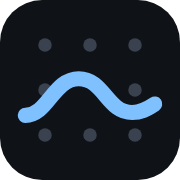
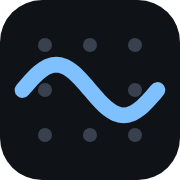
feat: met-service badge by country under cursor, smoke/fires/quakes overlays, symmetric mark, topbar menus always

Changed region(s): [[0.0833, 0.3056, 0.9167, 0.6944]]

diff --git a/front/provider.js b/front/provider.js
@@ -1,0 +1,63 @@
+// National met-service badge for the country under the cursor (Windy does
+// this with logos; we do it with wordmarks — the logos are trademarks and
+// this repo is MIT). Country from a Natural Earth 110 m polygon set bundled
+// in data/countries.json (public domain), point-in-polygon on a throttled
+// mousemove; the map centre on touch devices. Nothing shown when there is
+// no national service to credit for the spot (open ocean, Antarctica).
+(function () {
+  "use strict";
+  const WX = window.WX;
+  const PROVIDERS = {
+    US: ["NOAA · National Weather Service", "#1a5fb4"], CA: ["Environment and Climate Change Canada", "#c8102e"],
+    MX: ["SMN · Servicio Meteorológico Nacional", "#006847"], GB: ["Met Office", "#0d5f9c"], IE: ["Met Éireann", "#169b62"],
+    DE: ["DWD · Deutscher Wetterdienst", "#0a4a8f"], FR: ["Météo-France", "#1f4fa3"], ES: ["AEMET", "#c60b1e"], PT: ["IPMA", "#046a38"],
+    IT: ["Aeronautica Militare / ItaliaMeteo", "#008c45"], NL: ["KNMI", "#ff6f00"], BE: ["RMI / KMI", "#ffd90f"], CH: ["MeteoSwiss", "#d52b1e"],
+    AT: ["GeoSphere Austria", "#c8102e"], NO: ["MET Norway", "#ba0c2f"], SE: ["SMHI", "#006aa7"], FI: ["FMI", "#0033a0"], DK: ["DMI", "#c60c30"],
+    IS: ["Veðurstofa Íslands", "#02529c"], PL: ["IMGW", "#dc143c"], CZ: ["ČHMÚ", "#11457e"], AU: ["Bureau of Meteorology", "#00205b"],
+    NZ: ["MetService", "#1d3f8c"], JP: ["JMA · 気象庁", "#bc002d"], KR: ["KMA", "#0047a0"], CN: ["CMA · 中国气象局", "#de2910"],
+    IN: ["IMD", "#ff9933"], BR: ["INMET", "#009c3b"], AR: ["SMN Argentina", "#74acdf"], CL: ["Meteochile", "#d52b1e"], ZA: ["SAWS", "#007749"],
+    RU: ["Roshydromet", "#0039a6"], TR: ["MGM", "#e30a17"], GR: ["HNMS", "#0d5eaf"], SG: ["MSS", "#ef3340"], HK: ["Hong Kong Observatory", "#de2910"],
+    TW: ["CWA", "#fe0000"], PH: ["PAGASA", "#0038a8"], ID: ["BMKG", "#ce1126"], TH: ["TMD", "#2d2a4a"], VN: ["NCHMF", "#da251d"],
+    IL: ["IMS", "#0038b8"], AE: ["NCM", "#00732f"], SA: ["NCM", "#006c35"], EG: ["EMA", "#ce1126"], KE: ["KMD", "#006600"], NG: ["NiMet", "#008751"],
+    PE: ["SENAMHI", "#d91023"], CO: ["IDEAM", "#fcd116"], CU: ["INSMET", "#002a8f"],
+  };
+  let countries = null, loading = null, last = null, lastAt = 0, hideTimer = null;
+  const el = () => document.getElementById("provider");
+
+  function pip(lon, lat, ring) {
+    let inside = false;
+    for (let i = 0, j = ring.length - 1; i < ring.length; j = i++) {
+      const xi = ring[i][0], yi = ring[i][1], xj = ring[j][0], yj = ring[j][1];
+      if ((yi > lat) !== (yj > lat) && lon < (xj - xi) * (lat - yi) / (yj - yi || 1e-12) + xi) inside = !inside;
+    }
+    return inside;
+  }
+  function inGeom(lon, lat, g) {
+    if (g.type === "Polygon") return pip(lon, lat, g.coordinates[0]) && !g.coordinates.slice(1).some((h) => pip(lon, lat, h));
+    if (g.type === "MultiPolygon") return g.coordinates.some((poly) => pip(lon, lat, poly[0]));
+    return false;
+  }
+  function countryAt(lon, lat) {
+    if (!countries) return null;
+    for (const f of countries.features) if (inGeom(lon, lat, f.geometry)) return f.properties.iso;
+    return null;
+  }
+  function show(iso) {
+    const box = el(); if (!box) return;
+    const p = iso && PROVIDERS[iso];
+    if (!p) { box.classList.remove("show"); last = null; return; }
+    if (last === iso && box.classList.contains("show")) return;
+    // fade out → swap → fade in, so a border crossing reads as a change
+    const swap = () => { box.querySelector(".txt").innerHTML = `${p[0]} <small>${iso}</small>`; box.querySelector(".dot").style.background = p[1]; box.querySelector(".dot").style.color = p[1]; box.classList.add("show"); last = iso; };
+    if (box.classList.contains("show")) { box.classList.remove("show"); clearTimeout(hideTimer); hideTimer = setTimeout(swap, 180); } else swap();
+  }
+  function hover(ll) {
+    const now = performance.now();
+    if (!ll) { show(null); return; }
+    if (now - lastAt < 120) return;
+    lastAt = now;
+    if (!countries) { if (!loading) loading = fetch("data/countries.json").then((r) => r.json()).then((j) => { countries = j; hover(ll); }).catch(() => {}); return; }
+    show(countryAt(((ll.lng + 180) % 360 + 360) % 360 - 180, ll.lat));
+  }
+  WX.provider = { hover, PROVIDERS };
+})();

diff --git a/front/styles.css b/front/styles.css
@@ -113,18 +113,14 @@ select.run {
 .rail button.on svg { opacity: 1; }
 .rail button:disabled { opacity: .3; cursor: default; }
 
-/* ── topbar menus: inline chips on wide screens, popovers on narrow ────── */
-.menu { position: relative; display: contents; }
-.menu .menu-btn { display: none; white-space: nowrap; }
-.menu .menu-pop { display: contents; }
-@media (max-width: 1180px) {
-  .menu { display: block; }
-  .menu .menu-btn { display: inline-block; }
-  .menu .menu-pop { display: none; position: absolute; top: calc(100% + 6px); right: 0; z-index: 9; min-width: 150px; padding: 6px;
-    background: var(--panel-solid); border: 1px solid var(--line-strong); border-radius: 12px; box-shadow: 0 18px 50px rgba(0,0,0,.45); flex-direction: column; gap: 4px; }
-  .menu.open .menu-pop { display: flex; }
-  .menu .menu-pop .chip, .menu .menu-pop .icon { width: 100%; border-radius: 8px; text-align: left; justify-content: flex-start; height: auto; padding: 7px 10px; }
-}
+/* ── topbar menus: layers ▾ / tools ▾ popovers (all widths) ──────────── */
+.menu { position: relative; display: block; }
+.menu .menu-btn { white-space: nowrap; }
+.menu .menu-pop { display: none; position: absolute; top: calc(100% + 6px); right: 0; z-index: 9; min-width: 168px; padding: 6px;
+  background: var(--panel-solid); border: 1px solid var(--line-strong); border-radius: 12px; box-shadow: 0 18px 50px rgba(0,0,0,.45); flex-direction: column; gap: 4px; }
+.menu.open .menu-pop { display: flex; }
+.menu .menu-pop .chip, .menu .menu-pop .icon { width: 100%; border-radius: 8px; text-align: left; justify-content: flex-start; height: auto; padding: 7px 10px; }
+.menu .menu-btn.has-on { border-color: var(--accent); color: var(--accent); }
 :focus-visible { outline: 2px solid var(--accent); outline-offset: 2px; border-radius: 6px; }
 button:focus:not(:focus-visible) { outline: none; }
 
@@ -147,7 +143,8 @@ button:focus:not(:focus-visible) { outline: none; }
 #valid-utc { font-size: 10.5px; }
 #lead { font-size: 11.5px; min-width: 46px; }
 #tape-where { font-size: 11px; margin-left: auto; white-space: nowrap; overflow: hidden; text-overflow: ellipsis; max-width: 30%; }
-.tape { display: flex; overflow-x: auto; scrollbar-width: none; gap: 0; border-top: 1px solid var(--line); padding-top: 4px; }
+.tape { display: block; overflow-x: auto; overflow-y: hidden; scrollbar-width: none; min-width: 0; max-width: 100%; border-top: 1px solid var(--line); padding-top: 4px; }
+.tape.radar { display: flex; }
 .tape::-webkit-scrollbar { display: none; }
 .tape-day { display: flex; flex-direction: column; flex: 0 0 auto; border-right: 1px solid var(--line); }
 .tape-day:last-child { border-right: 0; }
@@ -326,3 +323,13 @@ table.wtape tr.r-dir td { height: 20px; }
 .tide { display: inline-flex; flex-direction: column; font: 500 11px var(--font-mono); color: var(--fg-2); }
 .tide b { font: 700 13px var(--font-display); color: var(--fg); }
 .tide.H b { color: var(--rain); }
+
+/* ── met-service badge for the country under the cursor ─────────────── */
+.provider { position: absolute; z-index: 5; left: 12px; bottom: calc(var(--tb-h) + 22px + env(safe-area-inset-bottom)); display: inline-flex; align-items: center; gap: 8px;
+  padding: 6px 11px 6px 9px; border-radius: 999px; background: var(--panel); border: 1px solid var(--line); backdrop-filter: blur(8px);
+  font: 700 11.5px var(--font-display); color: var(--fg-2); letter-spacing: .01em; opacity: 0; transform: translateY(6px); transition: opacity .35s ease, transform .35s ease; pointer-events: none; }
+.provider.show { opacity: 1; transform: translateY(0); }
+.provider .dot { width: 9px; height: 9px; border-radius: 50%; background: var(--accent); box-shadow: 0 0 10px currentColor; }
+.provider small { font: 600 10px var(--font-mono); color: var(--dim); margin-left: 4px; }
+#point:not([hidden]) ~ .provider { left: auto; right: 12px; }
+@media (max-width: 820px) { .provider { display: none; } }

diff --git a/front/app.js b/front/app.js
@@ -36,7 +36,7 @@
     point: null, tapePoint: null, tab: "now",
     radar: false, radarFrames: [], radarIdx: 0, radarHost: "",
     iso: false, avy: false, resorts: false, resort: null, measure: false,
-    alerts: false, storms: false, sat: false, barbs: false,
+    alerts: false, storms: false, sat: false, barbs: false, smoke: false, fires: false, quakes: false,
   };
   let map, wind, catalog, playTimer = null, marker = null;
 
@@ -100,6 +100,9 @@
         const avy = feats.find((x) => x.layer.id === "avy-fill");
         if (avy) { state.tab = "winter"; }
       });
+      map.on("mousemove", (e) => WX.provider && WX.provider.hover(e.lngLat));
+      map.on("mouseout", () => WX.provider && WX.provider.hover(null));
+      map.on("moveend", () => { if (!matchMedia("(hover: hover)").matches && WX.provider) WX.provider.hover(map.getCenter()); });
       map.on("mouseenter", "resort-pts", () => map.getCanvas().style.cursor = "pointer");
       map.on("mouseleave", "resort-pts", () => map.getCanvas().style.cursor = "");
       renderControls();
@@ -127,6 +130,9 @@
     if (state.alerts) WX.ov.loadAlerts();
     if (state.storms) WX.ov.loadStorms();
     if (state.sat) WX.ov.loadSat();
+    if (state.smoke) WX.ov.loadSmoke();
+    if (state.fires) WX.ov.loadFires();
+    if (state.quakes) WX.ov.loadQuakes();
     if (marker) marker.addTo(map);
   }
   function applyTheme(theme, swapMap = true) {
@@ -226,6 +232,9 @@
     $("#alerts-toggle").onclick = () => { state.alerts = !state.alerts; $("#alerts-toggle").classList.toggle("on", state.alerts); if (state.alerts) WX.ov.loadAlerts(); else WX.ov.clearAlerts(); };
     $("#storms-toggle").onclick = () => { state.storms = !state.storms; $("#storms-toggle").classList.toggle("on", state.storms); if (state.storms) WX.ov.loadStorms(); else WX.ov.clearStorms(); };
     $("#sat-toggle").onclick = () => { state.sat = !state.sat; $("#sat-toggle").classList.toggle("on", state.sat); if (state.sat) WX.ov.loadSat(); else WX.ov.clearSat(); };
+    for (const [k, load, clear] of [["smoke", "loadSmoke", "clearSmoke"], ["fires", "loadFires", "clearFires"], ["quakes", "loadQuakes", "clearQuakes"]]) {
+      $(`#${k}-toggle`).onclick = () => { state[k] = !state[k]; $(`#${k}-toggle`).classList.toggle("on", state[k]); if (state[k]) WX.ov[load](); else WX.ov[clear](); };
+    }
     $("#theme-toggle").onclick = () => applyTheme(document.documentElement.dataset.theme === "light" ? "dark" : "light");
     $("#measure-toggle").onclick = () => { state.measure = !state.measure; $("#measure-toggle").classList.toggle("on", state.measure); if (!state.measure) WX.ov.clearMeasure(); else toast("Measure: tap two points"); };
     $("#iso-toggle").onclick = () => { state.iso = !state.iso; $("#iso-toggle").classList.toggle("on", state.iso); if (state.iso) WX.ov.loadIso(); else WX.ov.clearIso(); };
@@ -237,6 +246,8 @@
     $("#point-close").onclick = closePoint;
     WX.search.wireSearch();
     $$(".menu .menu-btn").forEach((b) => b.onclick = (e) => { e.stopPropagation(); const m = b.parentElement; const open = m.classList.contains("open"); $$(".menu.open").forEach((x) => x.classList.remove("open")); if (!open) m.classList.add("open"); });
+    // menu buttons show a tick when any of their toggles is on
+    new MutationObserver(() => $$(".menu").forEach((m) => m.querySelector(".menu-btn").classList.toggle("has-on", !!m.querySelector(".menu-pop .chip.on")))).observe($("#topbar"), { subtree: true, attributes: true, attributeFilter: ["class"] });
     document.addEventListener("click", (e) => { if (!e.target.closest(".menu")) $$(".menu.open").forEach((x) => x.classList.remove("open")); });
     $$(".point-tabs button").forEach((b) => b.onclick = () => { state.tab = b.dataset.tab; renderPoint(); });
     document.addEventListener("keydown", (e) => {

diff --git a/front/overlays.js b/front/overlays.js
@@ -206,5 +206,36 @@
   }
   function clearMeasure() { measurePts = []; $("#measure").hidden = true; if (M().getLayer("measure-line")) M().removeLayer("measure-line"); if (M().getSource("measure")) M().removeSource("measure"); }
 
-  WX.ov = { toggleRadar, loadIso, clearIso, isoVar, loadAvy, clearAvy, loadResorts, clearResorts, selectResort, loadAlerts, clearAlerts, loadStorms, clearStorms, loadSat, clearSat, applyRadarFrame, measureClick, clearMeasure, radarTiles };
+  // ── smoke / fires / quakes ────────────────────────────────────────────
+  const WMS = (layer, base) => `${base}?SERVICE=WMS&VERSION=1.3.0&REQUEST=GetMap&LAYERS=${layer}&CRS=EPSG:3857&BBOX={bbox-epsg-3857}&WIDTH=256&HEIGHT=256&FORMAT=image/png&TRANSPARENT=true&STYLES=`;
+  function loadSmoke() {
+    if (M().getSource("smoke")) return;
+    M().addSource("smoke", { type: "raster", tileSize: 256, attribution: "Smoke/PM2.5: ECCC RAQDPS", tiles: [WMS("RAQDPS.SFC_PM2.5", "https://geo.weather.gc.ca/geomet")] });
+    M().addLayer({ id: "smoke", type: "raster", source: "smoke", paint: { "raster-opacity": 0.6, "raster-fade-duration": 0 } }, WX.fn.firstSymbolId());
+    toast("Smoke: surface PM2.5 forecast (ECCC RAQDPS), North America, latest model hour", 4500);
+  }
+  function clearSmoke() { if (M().getLayer("smoke")) M().removeLayer("smoke"); if (M().getSource("smoke")) M().removeSource("smoke"); }
+  function loadFires() {
+    if (M().getSource("fires")) return;
+    M().addSource("fires", { type: "raster", tileSize: 256, attribution: "Hotspots: NRCan CWFIS", tiles: [WMS("public:hotspots_last24hrs", "https://cwfis.cfs.nrcan.gc.ca/geoserver/public/wms")] });
+    M().addLayer({ id: "fires", type: "raster", source: "fires", paint: { "raster-opacity": 0.95, "raster-fade-duration": 0 } });
+    toast("Fires: satellite hotspots, last 24 h (NRCan CWFIS — Canada + border states)", 4500);
+  }
+  function clearFires() { if (M().getLayer("fires")) M().removeLayer("fires"); if (M().getSource("fires")) M().removeSource("fires"); }
+  async function loadQuakes() {
+    try {
+      const gj = await fetch("https://earthquake.usgs.gov/earthquakes/feed/v1.0/summary/2.5_day.geojson").then((r) => r.json());
+      if (!state.quakes) return;
+      if (M().getSource("quakes")) M().getSource("quakes").setData(gj);
+      else {
+        M().addSource("quakes", { type: "geojson", data: gj });
+        M().addLayer({ id: "quakes", type: "circle", source: "quakes", paint: { "circle-radius": ["interpolate", ["linear"], ["get", "mag"], 2.5, 4, 5, 9, 7, 18], "circle-color": ["interpolate", ["linear"], ["get", "mag"], 2.5, "#f5d33c", 5, "#e8590c", 7, "#b30000"], "circle-opacity": 0.75, "circle-stroke-color": "#000", "circle-stroke-width": 1 } });
+        M().on("click", "quakes", (e) => { const p = e.features[0].properties; toast(`M${p.mag} · ${p.place} · ${new Date(p.time).toLocaleString()}`, 7000); });
+      }
+      toast(`Quakes: ${gj.features.length} events M2.5+ in the past day (USGS)`, 4000);
+    } catch (e) { toast("USGS feed unavailable"); }
+  }
+  function clearQuakes() { if (M().getLayer("quakes")) M().removeLayer("quakes"); if (M().getSource("quakes")) M().removeSource("quakes"); }
+
+  WX.ov = { loadSmoke, clearSmoke, loadFires, clearFires, loadQuakes, clearQuakes, toggleRadar, loadIso, clearIso, isoVar, loadAvy, clearAvy, loadResorts, clearResorts, selectResort, loadAlerts, clearAlerts, loadStorms, clearStorms, loadSat, clearSat, applyRadarFrame, measureClick, clearMeasure, radarTiles };
 })();

diff --git a/front/index.html b/front/index.html
@@ -40,6 +40,9 @@
       <button id="alerts-toggle" class="chip warn" title="Weather alerts (NWS polygons + Environment Canada)">alerts</button>
       <button id="storms-toggle" class="chip warn" title="Active tropical cyclones (NHC/CPHC)">storms</button>
       <button id="sat-toggle" class="chip" title="GOES GeoColor satellite (NASA GIBS, latest ~1 h)">satellite</button>
+      <button id="smoke-toggle" class="chip" title="Surface PM2.5 / wildfire smoke forecast (ECCC RAQDPS)">smoke</button>
+      <button id="fires-toggle" class="chip warn" title="Wildfire hotspots, last 24 h (NRCan CWFIS)">fires</button>
+      <button id="quakes-toggle" class="chip" title="Earthquakes M2.5+, past day (USGS)">quakes</button>
     </div>
   </div>
   <div class="menu" id="tools-menu">
@@ -98,6 +101,7 @@
 </div>
 
 <div id="measure" class="measure" hidden></div>
+<div id="provider" class="provider" aria-live="polite"><span class="dot"></span><span class="txt"></span></div>
 <div id="toast" hidden></div>
 
 <script src="vendor/maplibre-gl.js"></script>
@@ -106,6 +110,7 @@
 <script src="overlays.js"></script>
 <script src="tape.js"></script>
 <script src="search.js"></script>
+<script src="provider.js"></script>
 <script src="panes.js"></script>
 </body>
 </html>

diff --git a/front/tape.js b/front/tape.js
@@ -69,7 +69,7 @@
       <tr class="r-dir">${label("Wind dir.")}${dirRow}</tr>
     </tbody></table>`;
     tape.querySelectorAll("td[data-i]").forEach((c) => c.onclick = () => WX.fn.setStep(Number(c.dataset.i)));
-    $("#tape-where").textContent = state.point ? (state.point.name || `${state.point.lat.toFixed(2)}, ${state.point.lon.toFixed(2)}`) : "M() centre";
+    $("#tape-where").textContent = state.point ? (state.point.name || `${state.point.lat.toFixed(2)}, ${state.point.lon.toFixed(2)}`) : "map centre";
     renderTapeSelection();
   }
 
